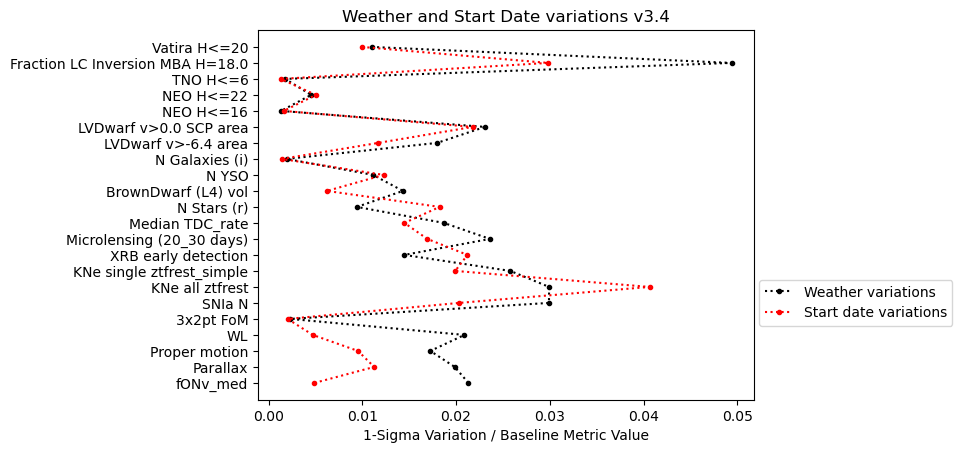
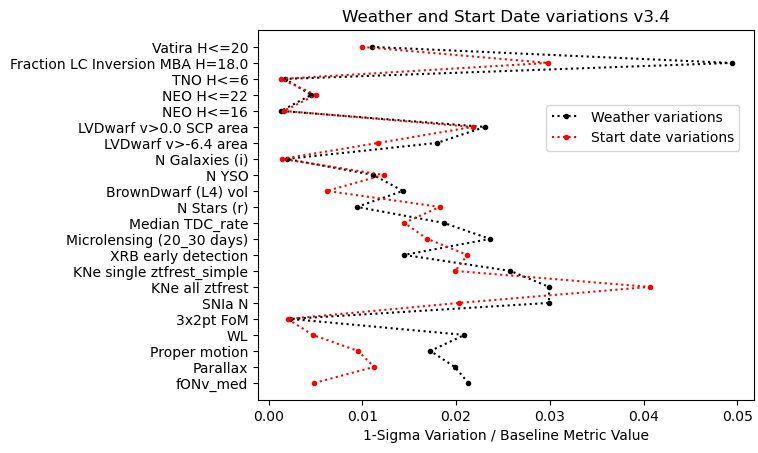
moved fig 16 legend

diff --git a/additional.tex b/additional.tex
@@ -56,7 +56,7 @@ Future simulations will be updated to match the LSST forecasts.\footnote{\url{ls
 
 \begin{figure}
     \centering
-    \includegraphics[width=0.95\linewidth]{figures/uncertainties_v3_4.png}
+    \includegraphics[width=0.85\linewidth]{figures/uncertainties_v3_4.png}
     \caption{With each baseline, we produce a series of simulations with varying start dates and weather patterns. The uncertainty in metric values associated with variations in weather-related downtime is similar to the uncertainty observed changing the start date of the survey, demonstrating that the effect of start date changes is dominated by weather-related effects.}
     \label{fig:startdates_weather}
 \end{figure}
